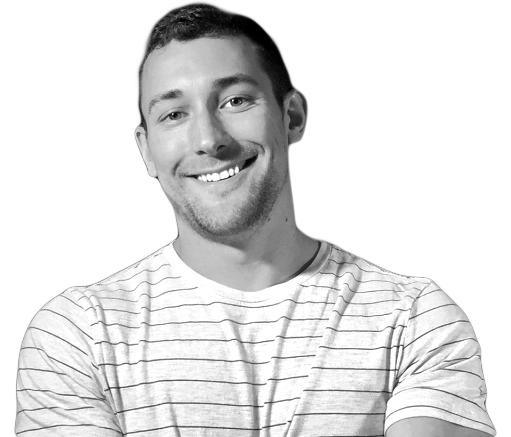
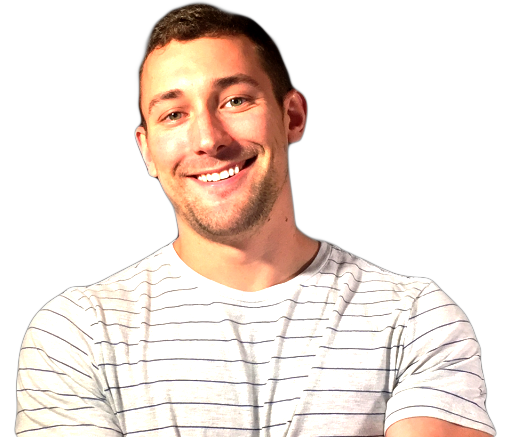
row1 html
row1 html

Changed region(s): [[0.0294, 0.0, 0.9687, 1.0], [0.1174, 0.714, 0.1468, 0.7437], [0.0881, 0.6842, 0.1174, 0.714]]

diff --git a/index.html b/index.html
@@ -33,9 +33,15 @@
 </head>
 
 <body class="home">
-    <div><h1>Hello World!</h1>
-        <img src="/images/me.png" alt="Cam Reese" style="width:304px;height:228px;">
-</div>
+    <div class="row1">
+        <div class="col1" style="width:50%;float:left;margin:5%;">
+            <h1>cam reese</h1>
+            <h3>engineer & producer</h3>
+        </div>
+        <div class="col2" style="width:50%;float:left;margin:5%;">
+            <img src="/images/me.png" alt="Cam Reese" style="width:auto;">
+        </div>
+    </div>
 
 
 <!--========== Javascript Files ==========-->
